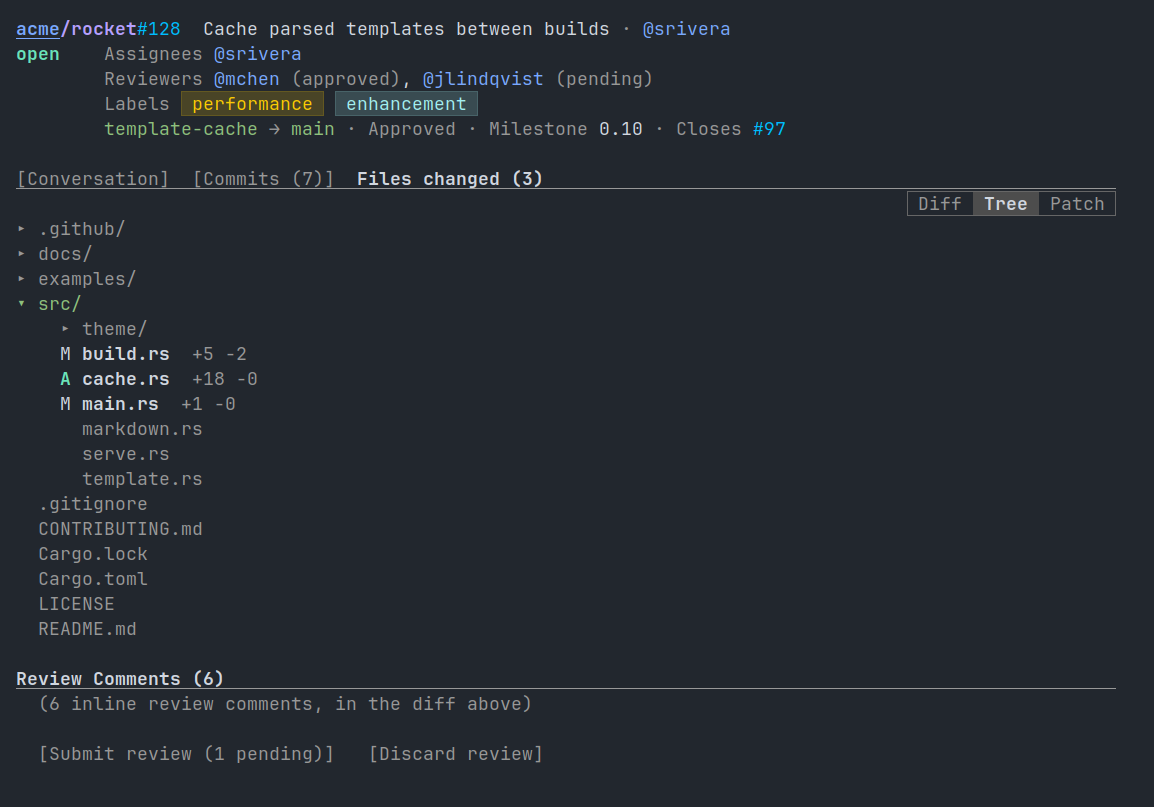
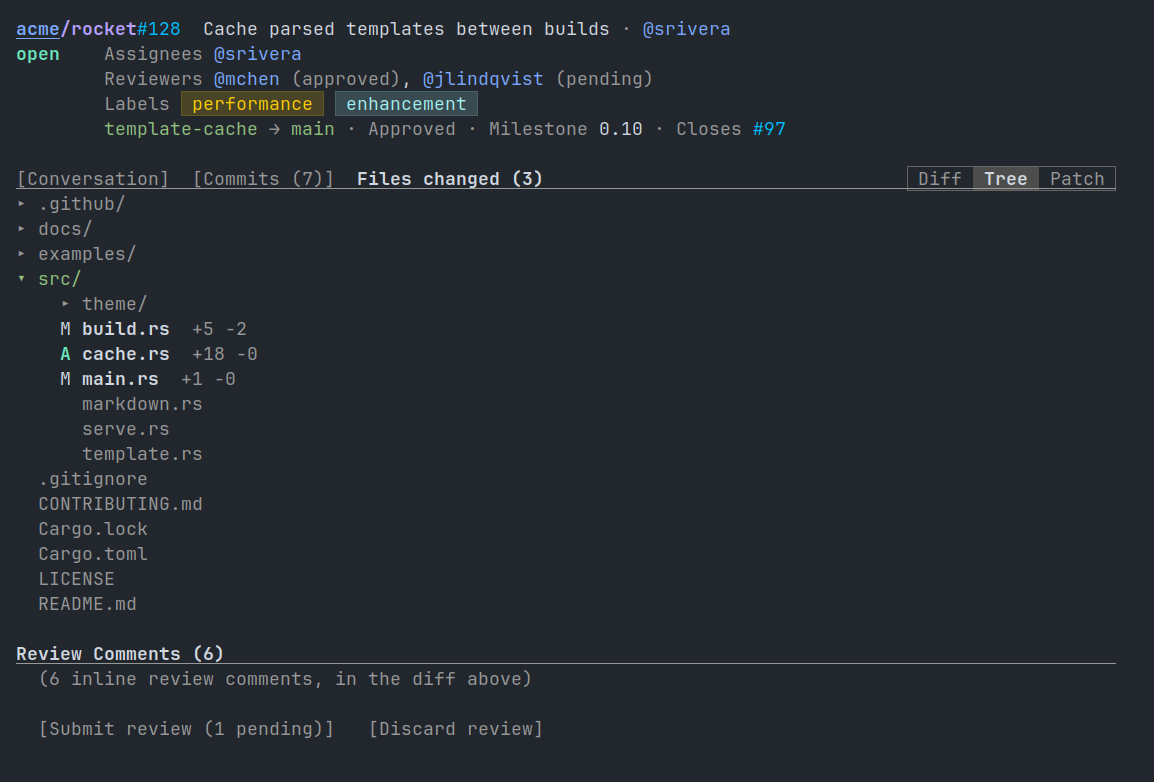
Put a PR's Diff, Tree and Patch switch on its tab row
The pill of views ends the tab row, at the right, as it ends the commit
page's top line; the line below keeps only the Files buttons, and the
Tree view no longer gives the pill a line of its own.

diff --git a/docs/user-interface-conventions.md b/docs/user-interface-conventions.md
@@ -544,8 +544,8 @@ its views boxed side by side into one outline, the view shown filled in, the oth
 text names `C-c C-v`, so the key is found from the page.
 The pill always ends its line, at the right edge
 (`octocat-vui-segmented-right`), so it is found in the same place on
-every page: the file and commit pages' top line, the Files heading of a
-PR's files changed, the Jobs heading of a run.
+every page: the file and commit pages' top line, the tab row of a PR's
+files changed, the Jobs heading of a run.
 
 Re-render the page in place with the new prop (`octocat-vui-update-page`),
 not a remount; see [using vui.el](using-vui.md).  Remember the choice with

diff --git a/CHANGELOG.md b/CHANGELOG.md
@@ -4,6 +4,7 @@ All notable changes to this project will be documented in this file.
 The format is based on [Keep a Changelog](https://keepachangelog.com/en/1.0.0/).
 
 ## [Unreleased]
+* A PR's Diff, Tree and Patch switch sits on its tab row, at the right
 * A PR timeline's commits start with a coloured ○, or ⊕ for a merge
 * Timeline and feed dim their verbs, so titles, commits and people stand out
 * A job's step names are no longer dimmed
